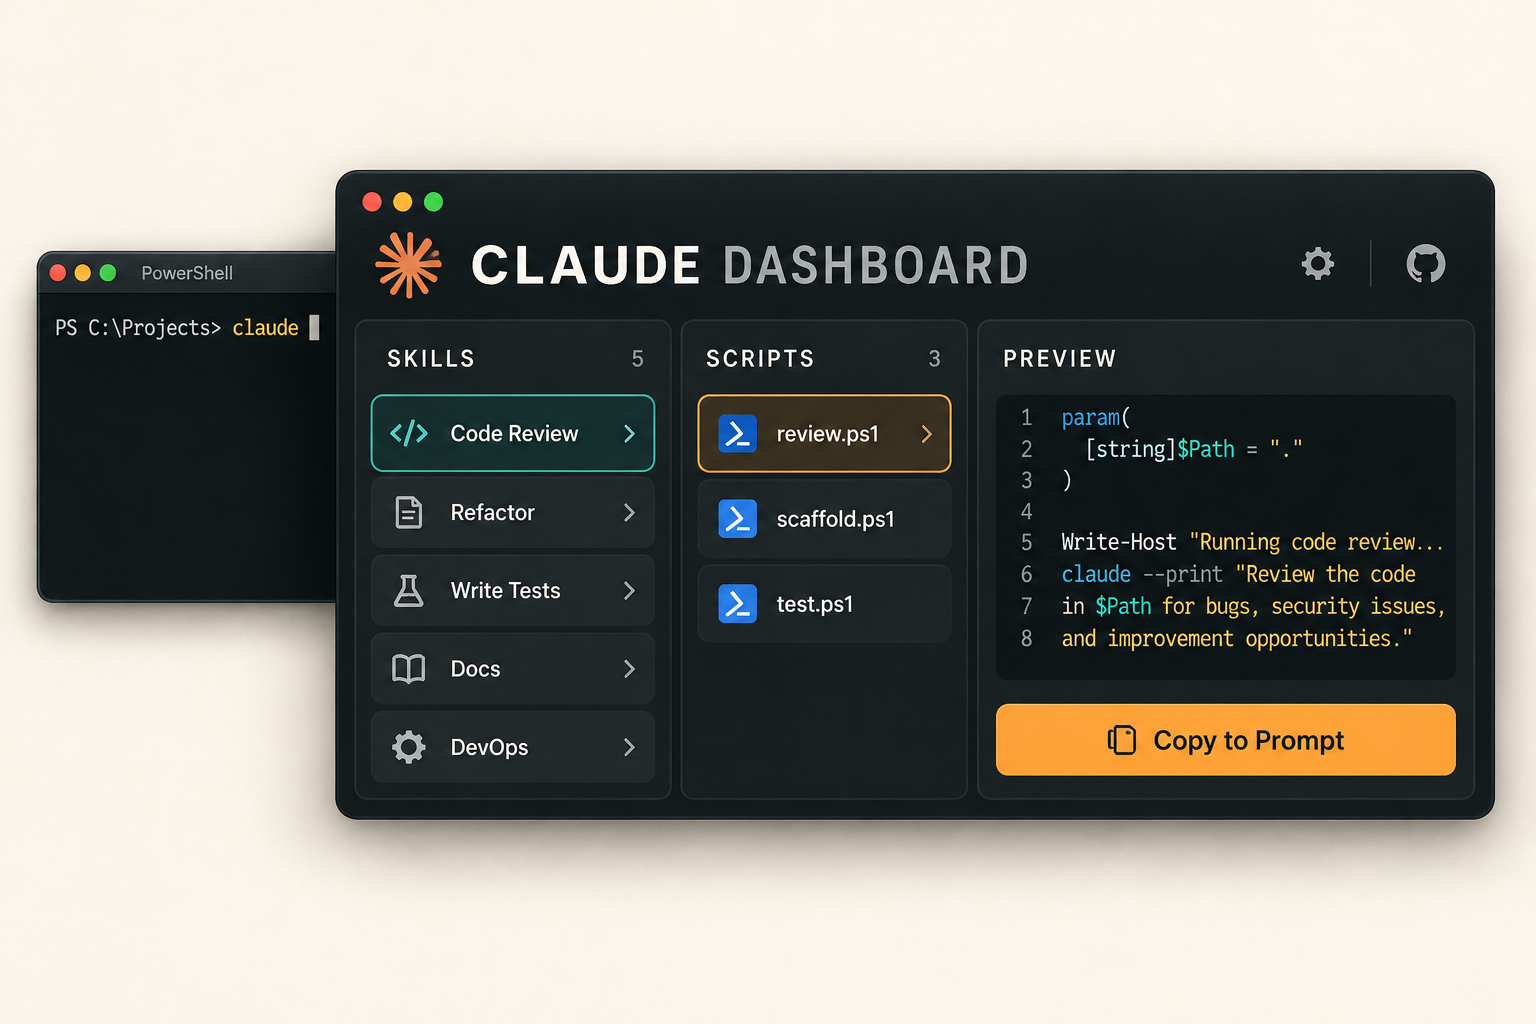
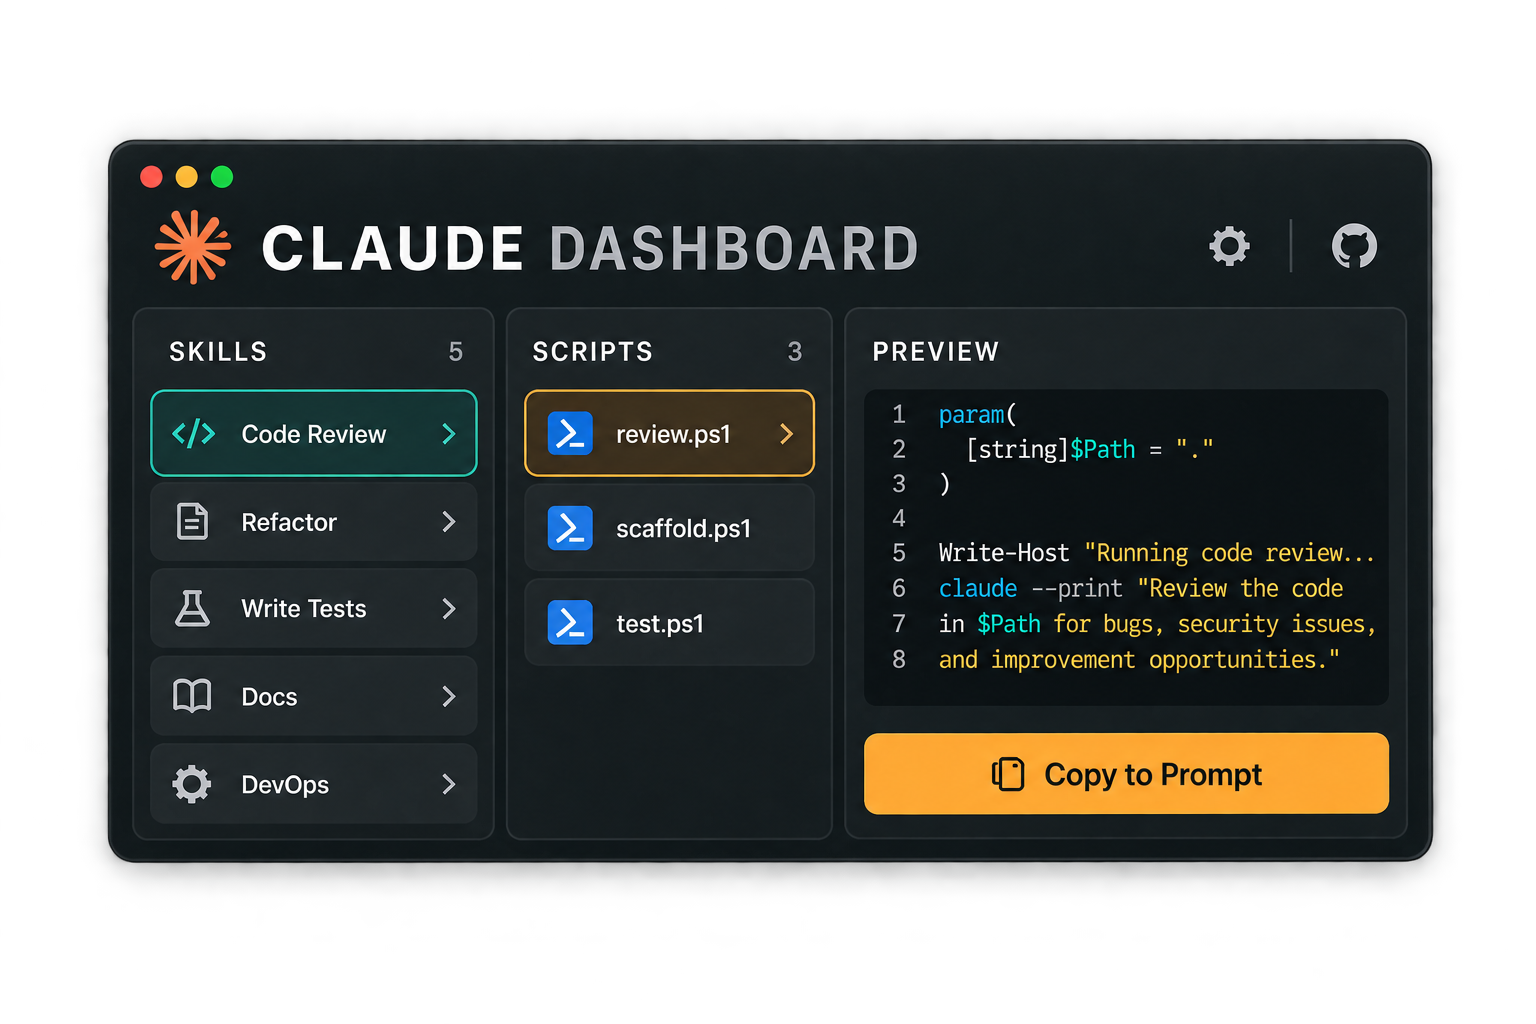
docs: feature isolated dashboard hero in README

diff --git a/README.md b/README.md
@@ -1,5 +1,9 @@
 # Claude Dashboard
 
+<p align="center">
+  <img src="assets/dashboard-hero-compact.png" alt="Claude Dashboard showing Skills, Scripts, and a command preview" width="920" />
+</p>
+
 A reusable Claude Code plugin that opens a project dashboard with /dash. The Skills tab lists the current session's slash commands. The Scripts tab inspects a project's scripts folder and builds commands from PowerShell's own parameter metadata.
 
 The repository is named claude-dashboard. The installed plugin is named project-dashboard.
